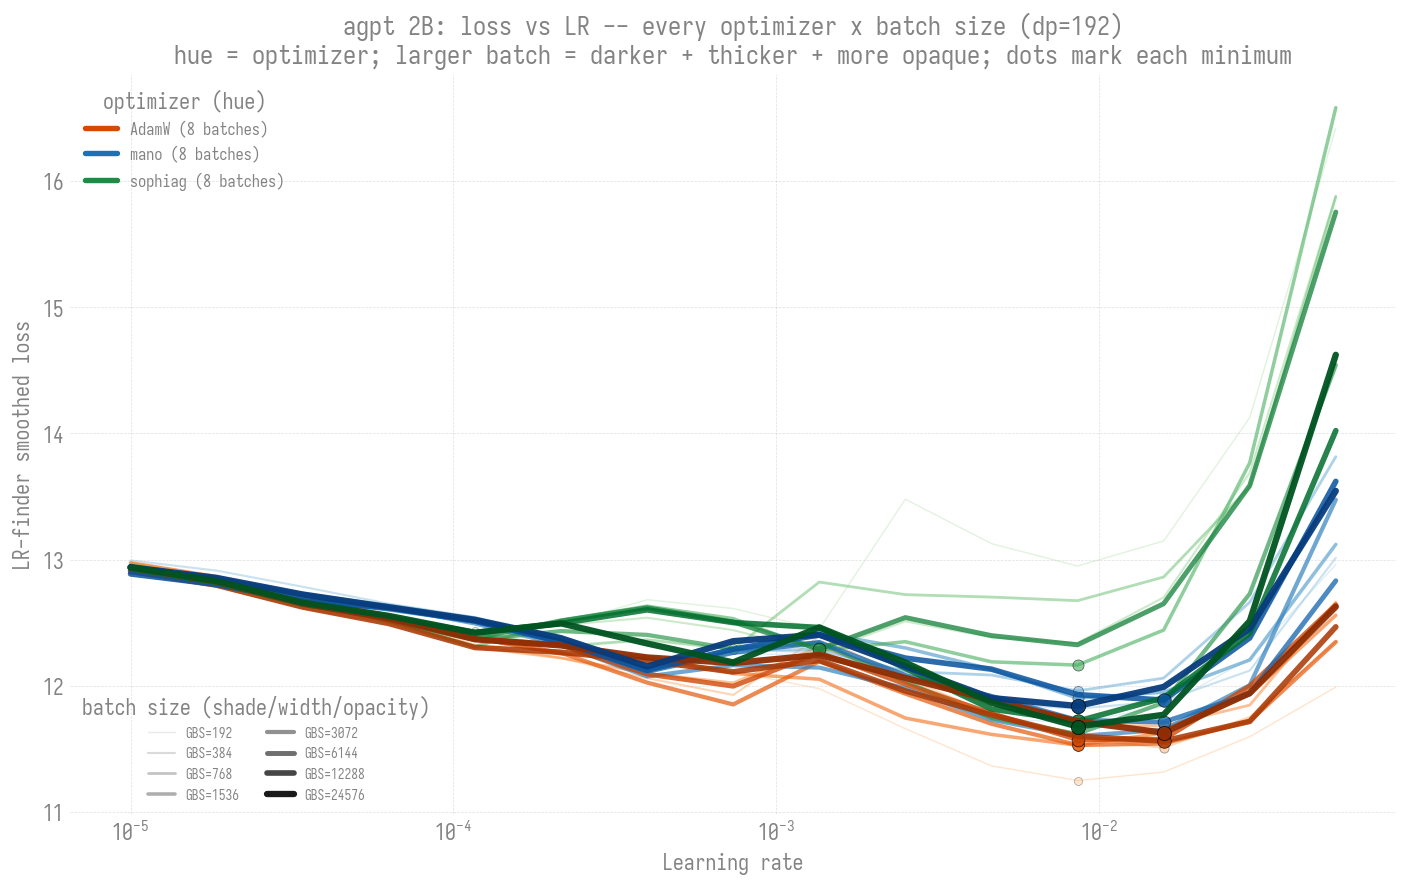
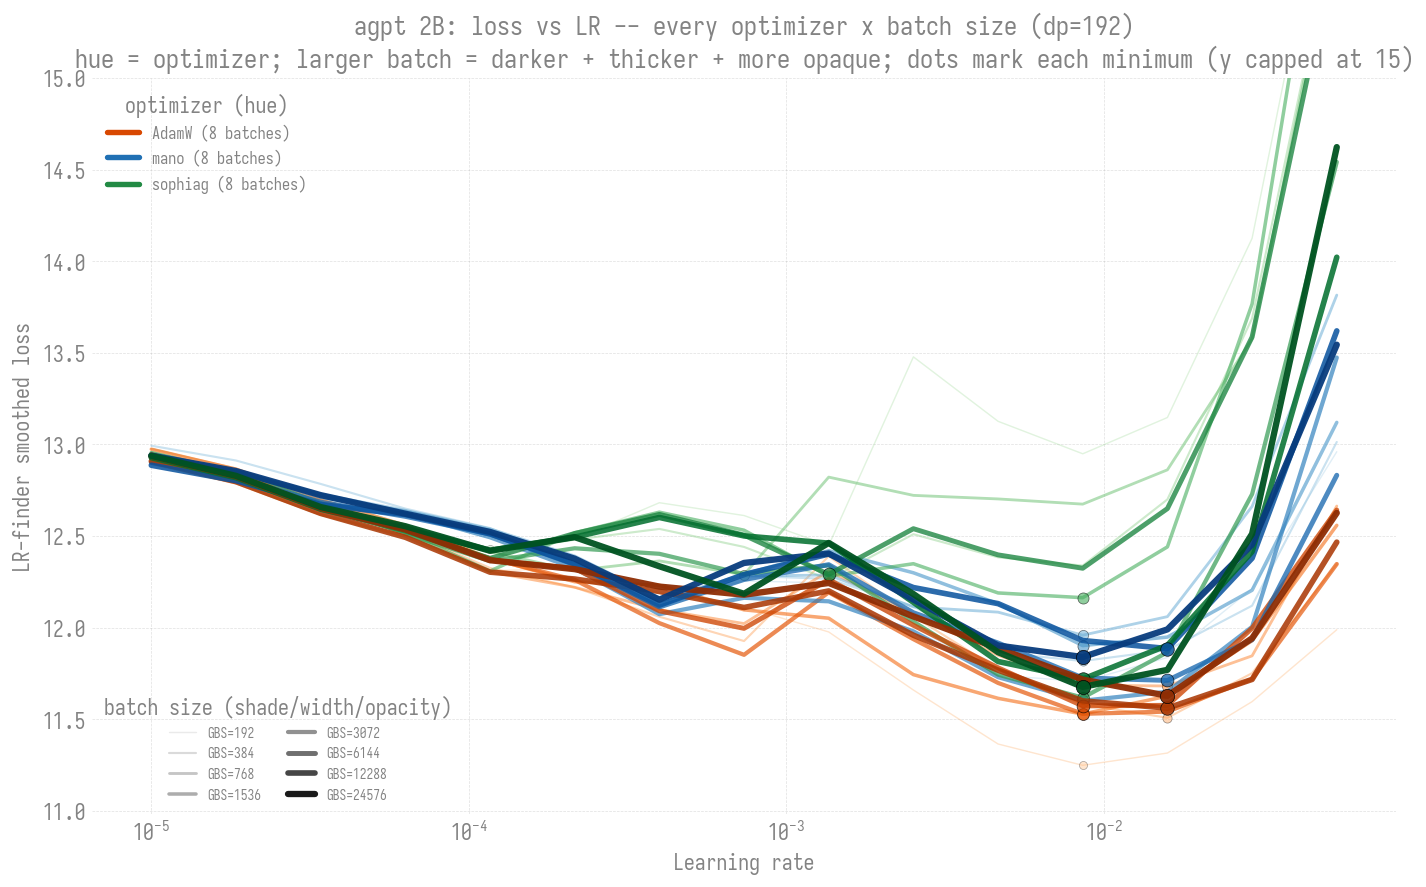
docs(ezpz/lr-finder): cap combined-plot y-axis at 15 + fix 20B 6144 sophiag cell
- plot_all_opts_all_gbs: set_ylim(top=15). The high-LR blow-up runs to ~50
  (esp. sophiag), compressing the basin (loss ~11-14, where the minima are)
  into the bottom of the plot. Capping at 15 zooms into the minima; blow-up
  curves continue off-axis (noted in the title). Applies to 2B + 20B combined
  figures.
- 20b/README.md: fix the GBS=6144 sophiag cell 1.4e-3 -> 1.4e-5 (typo, off by
  100x; CSV is 1.4e-5/12.4). Now matches the data and the "sophiag dead-flat
  ~1.4e-5" prose.

diff --git a/torchtitan/experiments/ezpz/scripts/plot_lr_trend.py b/torchtitan/experiments/ezpz/scripts/plot_lr_trend.py
@@ -216,11 +216,17 @@ def plot_all_opts_all_gbs(out: Path, model: str = "2b") -> None:
                        zorder=2 + i + 0.5)
             plotted[opt] += 1
     ax.set_xscale("log")
+    # Cap the y-axis at 15: the high-LR blow-up runs to ~50 (esp. sophiag),
+    # which crushes the interesting basin (loss ~11-14) into the bottom of the
+    # plot. Trimming to 15 zooms into the minima while still showing the
+    # upturn. Curves continue off-axis above 15 (that is the blow-up region,
+    # not where the optimum is).
+    ax.set_ylim(top=15)
     ax.set_xlabel("Learning rate")
     ax.set_ylabel("LR-finder smoothed loss")
     ax.set_title(f"agpt {model.upper()}: loss vs LR -- every optimizer x batch "
                  f"size (dp=192)\nhue = optimizer; larger batch = darker + "
-                 f"thicker + more opaque; dots mark each minimum")
+                 f"thicker + more opaque; dots mark each minimum (y capped at 15)")
     opt_handles = [
         Line2D([0], [0], color=plt.get_cmap(_OPT_CMAP[o])(0.75), lw=3,
                label=f"{OPT_LABEL[o]} ({plotted[o]} batches)")

diff --git a/torchtitan/experiments/ezpz/docs/experiments/lr-finder/agpt/20b/README.md b/torchtitan/experiments/ezpz/docs/experiments/lr-finder/agpt/20b/README.md
@@ -37,7 +37,7 @@ including both production batches (6144, 12288):
 | 768   | 4.6e-5 / 12.0 | 3.4e-5 / 11.8 | 1.4e-5 / 12.4 |
 | 1536  | 1.0e-3 / 11.3 | 2.5e-5 / 12.0 | 1.4e-5 / 12.4 |
 | 3072  | 1.4e-5 / 12.4 | 3.4e-5 / 11.8 | 1.4e-5 / 12.4 |
-| **6144** (prod) | 1.6e-4 / 11.9 | 8.6e-5 / 11.5 | 1.4e-3 / 12.3 |
+| **6144** (prod) | 1.6e-4 / 11.9 | 8.6e-5 / 11.5 | 1.4e-5 / 12.4 |
 | **12288** (512N) | 3.4e-5 / 12.3 | 6.3e-5 / 11.7 | 1.4e-5 / 12.4 |
 
 (cells are min-LR / min-loss; **all 21 cells 0 NaN** -- 20B never cliffs.)
